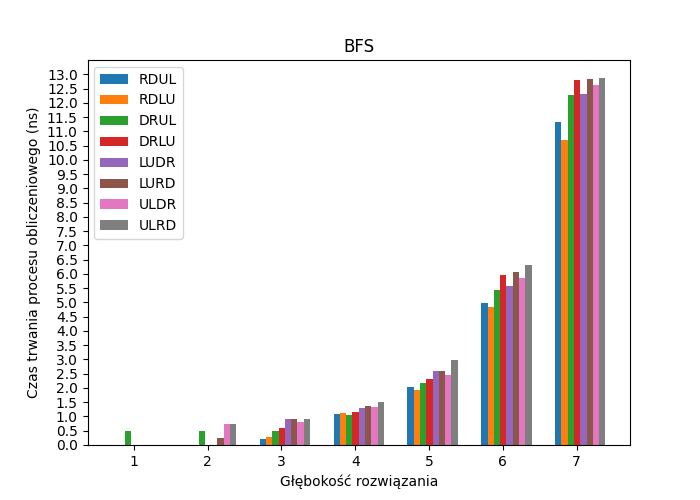
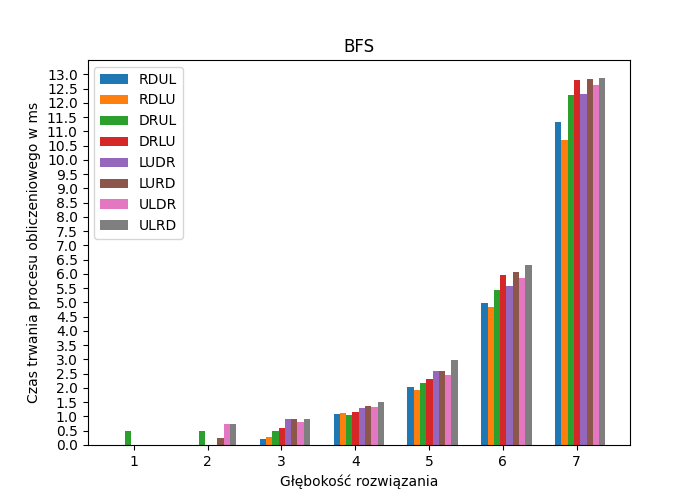
changes in plots function, generated plots examples

Changed region(s): [[0.03, 0.21, 0.06, 0.81]]

diff --git a/projekt/wykresy.py b/projekt/wykresy.py
@@ -7,11 +7,11 @@ import numpy as np
 pd.set_option('display.max_columns', None)
 
 headlines = ("glebokosc", "numer_ukladanki", "strategia", "piorytet", "dlugosc_rozw", "odwiedzone", "przetworzone", "max_rekurencja", "czas")
-with open('D:\Projects\PythonDev\SISE\SISE\projekt\wszystkiedane.csv', 'rb') as f:
+with open('wszystkiedane.csv', 'rb') as f:
     enc = chardet.detect(f.read())
 f.close()
 
-df = pd.read_csv("D:\Projects\PythonDev\SISE\SISE\projekt\wszystkiedane.csv", encoding=enc['encoding'], delimiter=' ', names = headlines)
+df = pd.read_csv("wszystkiedane.csv", encoding=enc['encoding'], delimiter=' ', names = headlines)
 
 #grouping of dataframe against relevant criteria
 dfs = df.loc[df["strategia"] == "dfs"]
@@ -47,6 +47,10 @@ criterion = "czas"
 dfs2 = dfs.groupby("glebokosc")[criterion].mean()
 bfs2 = bfs.groupby("glebokosc")[criterion].mean()
 astr2 = astr.groupby("glebokosc")[criterion].mean()
+
+dfs_log = np.log10(dfs2)
+bfs_log = np.log10(bfs2)
+astr_log = np.log10(astr2)
 
 bfs_rdul2 = bfs_rdul.groupby("glebokosc")[criterion].mean()
 bfs_rdlu2 = bfs_rdlu.groupby("glebokosc")[criterion].mean()
@@ -86,14 +90,14 @@ fig, ax = plt.subplots(figsize=(7, 5))
 #ax.bar(np.arange(len(astr2)) + 2*bar_width, astr2.values, width=bar_width, align="center", label="A*")
 
 #plot the bars for data frames (exercise 2 and 3)
-#ax.bar(np.arange(len(dfs_rdul2)), dfs_rdul2.values, width=bar_width1, align="center", label="RDUL")
-#ax.bar(np.arange(len(dfs_rdlu2)) + bar_width1, dfs_rdlu2.values, width=bar_width1, align="center", label="RDLU")
-#ax.bar(np.arange(len(dfs_drul2)) + 2*bar_width1, dfs_drul2.values, width=bar_width1, align="center", label="DRUL")
-#ax.bar(np.arange(len(dfs_drlu2)) + 3*bar_width1, dfs_drlu2.values, width=bar_width1, align="center", label="DRLU")
-#ax.bar(np.arange(len(dfs_ludr2)) + 4*bar_width1, dfs_ludr2.values, width=bar_width1, align="center", label="LUDR")
-#ax.bar(np.arange(len(dfs_lurd2)) + 5*bar_width1, dfs_lurd2.values, width=bar_width1, align="center", label="LURD")
-#ax.bar(np.arange(len(dfs_uldr2)) + 6*bar_width1, dfs_uldr2.values, width=bar_width1, align="center", label="ULDR")
-#ax.bar(np.arange(len(dfs_ulrd2)) + 7*bar_width1, dfs_ulrd2.values, width=bar_width1, align="center", label="ULRD")
+#ax.bar(np.arange(len(bfs_rdul2)), bfs_rdul2.values, width=bar_width1, align="center", label="RDUL")
+#ax.bar(np.arange(len(bfs_rdlu2)) + bar_width1, bfs_rdlu2.values, width=bar_width1, align="center", label="RDLU")
+#ax.bar(np.arange(len(bfs_drul2)) + 2*bar_width1, bfs_drul2.values, width=bar_width1, align="center", label="DRUL")
+#ax.bar(np.arange(len(bfs_drlu2)) + 3*bar_width1, bfs_drlu2.values, width=bar_width1, align="center", label="DRLU")
+#ax.bar(np.arange(len(bfs_ludr2)) + 4*bar_width1, bfs_ludr2.values, width=bar_width1, align="center", label="LUDR")
+#ax.bar(np.arange(len(bfs_lurd2)) + 5*bar_width1, bfs_lurd2.values, width=bar_width1, align="center", label="LURD")
+#ax.bar(np.arange(len(bfs_uldr2)) + 6*bar_width1, bfs_uldr2.values, width=bar_width1, align="center", label="ULDR")
+#ax.bar(np.arange(len(bfs_ulrd2)) + 7*bar_width1, bfs_ulrd2.values, width=bar_width1, align="center", label="ULRD")
 
 #plot the bars for data frames (exercise 4)
 ax.bar(np.arange(len(astr_hamm2)), astr_hamm2.values, width=bar_width, align="center", label="Hamming")
@@ -105,10 +109,13 @@ ax.set_xticklabels(xticklabels)
 
 #set the y-ticks
 plt.yticks(np.arange(0, 1.2, 0.1))
+#ytickslabels = ['10^0','10^1','10^2','10^3','10^4','10^5','10^6']
+#ax.set_yticklabels(ytickslabels)
+#ax.set_yscale('log')
 
 #set the x-axis and y-axis labels
 ax.set_xlabel("Głębokość rozwiązania")
-ax.set_ylabel("Czas trwania procesu obliczeniowego (ns)")
+ax.set_ylabel("Czas trwania procesu obliczeniowego w ms")
 
 #set the legend and title
 #ax.legend(bbox_to_anchor=(0.96, 1.1), loc='upper left', borderaxespad=0.)
@@ -117,6 +124,9 @@ plt.title("A*")
 
 #show the plot
 plt.show()
+
+
+
 
 
 
